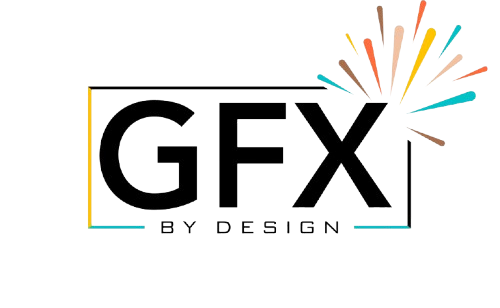
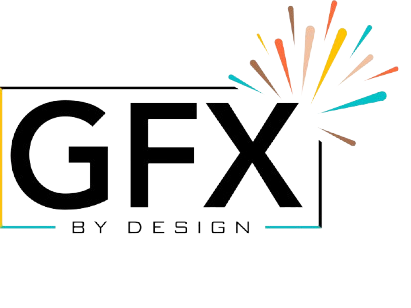
header 30%

Changed region(s): [[0.0, 0.0, 0.9927, 0.7597], [0.6131, 0.1169, 0.6423, 0.1461]]

diff --git a/src/assets/styles/Prime.css b/src/assets/styles/Prime.css
@@ -1,0 +1,46 @@
+.Prime-contailer {
+  box-sizing: border-box;
+  margin-left: 5rem;
+}
+
+h1 {
+  font-family: var(--fontComfortaa);
+  font-optical-sizing: auto;
+  font-weight: 300;
+  font-style: normal;
+  font-size: 4rem;
+}
+
+h1 .h1-span {
+  font-weight: 900;
+  font-size: 4.5rem;
+  display: inline-block;
+  font-family: var(--fontComfortaaMONO);
+}
+
+.animate {
+  font-family: var(--fontComfortaaMONO);
+  width: 7ch;
+  font-size: 4.5rem;
+  overflow: hidden;
+  display: inline-block;
+  font-weight: 300;
+  animation: typing 3s steps(8) infinite alternate, blink 0.6s step-end infinite;
+  vertical-align: bottom; /* Alinea con el resto del texto */
+  border-right: 3px solid #131313; /* El cursor es un borde */
+}
+
+@keyframes typing {
+  from {
+    width: 0ch;
+  }
+  to {
+    width: 8ch;
+  }
+}
+
+@keyframes blink {
+  50% {
+    border-color: transparent; /* Hace que el borde sea invisible en el 50% del ciclo */
+  }
+}

diff --git a/src/assets/styles/Variables.css b/src/assets/styles/Variables.css
@@ -1,8 +1,14 @@
 /* variables.css */
 
 @import url('https://fonts.googleapis.com/css2?family=Raleway:ital,wght@0,100..900;1,100..900&family=Roboto:ital,wght@0,100;0,300;0,400;0,500;0,700;0,900;1,100;1,300;1,400;1,500;1,700;1,900&display=swap');
+@import url('https://fonts.googleapis.com/css2?family=Comfortaa:wght@300..700&family=Raleway:ital,wght@0,100..900;1,100..900&family=Roboto:ital,wght@0,100;0,300;0,400;0,500;0,700;0,900;1,100;1,300;1,400;1,500;1,700;1,900&display=swap');
+@import url('https://fonts.googleapis.com/css2?family=Courier+Prime&display=swap');
+
+
 :root {
   --fontRaleway:'Raleway', sans-serif;
+  --fontComfortaa:"Comfortaa", sans-serif;
+  --fontComfortaaMONO:'Courier Prime', monospace;;
   --color-celeste: #0B7678;
   --color-secundario: #6c757d;
   --color-texto: #333;

diff --git a/src/assets/styles/Header.css b/src/assets/styles/Header.css
@@ -5,13 +5,14 @@ header {
   display: flex;
   justify-content: space-between;
   align-items: center;
-  margin: 0 2.5rem;
+  margin: 0 3rem;
 }
 
 header .header-logo img{
   max-width: 180px;
   height: auto;
-  padding-top: 10px;
+  margin-top: 10px;
+  margin-left: 2.5rem;
   align-items: center;
 }
 
@@ -21,7 +22,7 @@ header nav ul{
 }
 
 header nav ul a {
-  font-size: clamp(1.4rem, 1.4vw, 1.9rem);
+  font-size: clamp(1.3rem, 1.4vw, 1.7rem);
   text-decoration: none;
   font-family: system-ui, -apple-system, BlinkMacSystemFont, 'Segoe UI', Roboto, Oxygen, Ubuntu, Cantarell, 'Open Sans', 'Helvetica Neue', sans-serif;
   color: #151515;

diff --git a/src/assets/sections/Prime.jsx b/src/assets/sections/Prime.jsx
@@ -1,5 +1,6 @@
 import React from 'react'
 import { Helmet } from 'react-helmet'
+import '../styles/Prime.css'
 
 function Prime() {
   return (
@@ -9,7 +10,7 @@ function Prime() {
         <meta name='description' content='Your partner in transforming ideas into stunning visuals.' />
       </Helmet>
       <div className='Prime-contailer'>
-        <h1>Building bands with <span>purpose</span></h1> 
+        <h1><span className='h1-span'>Building</span> brands <br/> with <span className='h1-span animate'>purpose</span></h1> 
       </div>
     </>
   )

diff --git a/src/App.css b/src/App.css
@@ -4,3 +4,5 @@
   grid-template-rows: auto 1fr auto;
 }
 
+
+
